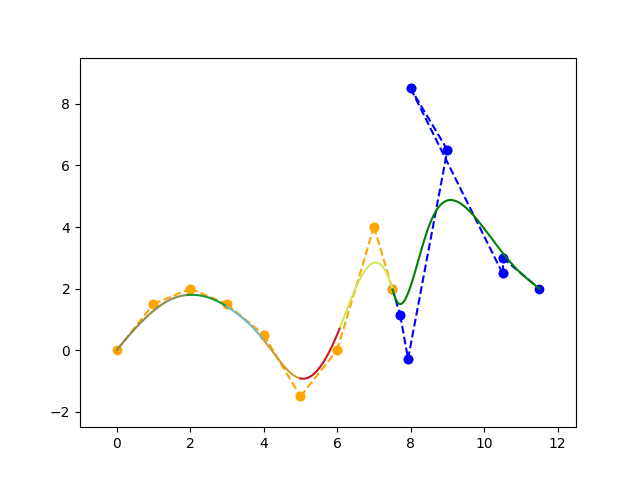
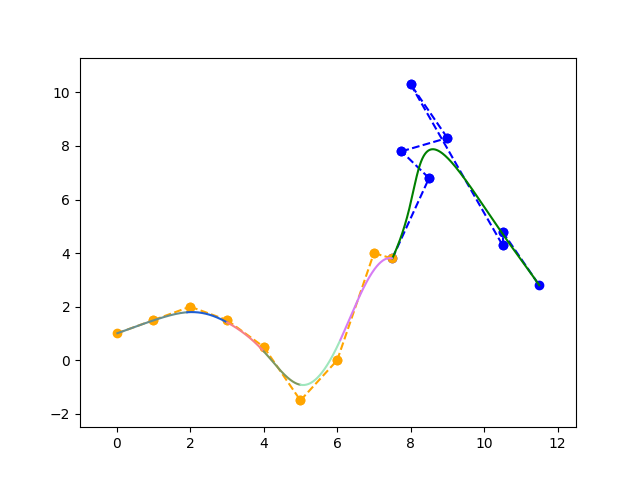
update (C0 fixed and other kinds of knot vector)
C0 fixed and other kinds of knot vector

diff --git a/Join Curves (C2)/Join.py b/Join Curves (C2)/Join.py
@@ -166,24 +166,27 @@ def getKnots(n, D):
             T.append(j-D+1)
         else:
             T.append(n-D+2)
+        # T.append(j/(n+D))
     return T
 
 def Plot_Bspline(points, D, T):
 
     n = len(points)-1
-    print(T)
+    print("Vetor de nós da B-spline: " + str(T))
 
-    U = np.linspace(0.0, n-D+2, 1000)
+    # U = np.linspace(0.0, n-D+2, 1000)
+    U = np.linspace(T[0], T[-1], 1000)
 
-    segments = list(set(T))
-    print(segments)
+    segments = list(T)
+    segments.sort()
+    print("Segmentos da B-spline: " + str(segments))
 
-    for i, segment in enumerate(segments[0:-1]):
-        piece = [calc_Bspline(points, ui, D, T) for ui in U if segment <= ui <= segments[i+1]]
+    for i, segment in enumerate(segments[D-1:-D], D-1):
+        piece = [calc_Bspline(points, ui, D, T) for ui in U if segment < ui <= segments[i+1]]
         X = [point.x for point in piece[0:-1]]
         Y = [point.y for point in piece[0:-1]]
         Z = [point.z for point in piece[0:-1]]
-
+        
         hexadecimal = "#"+''.join([random.choice('ABCDEF0123456789') for i in range(6)])
         plt.plot(X, Y, color = hexadecimal)
 
@@ -213,27 +216,32 @@ def Force_C0_BsplineToBezier(lastPoint_Bspline, Bezier_Points) -> None:
 def Force_C1_BsplineToBezier(Bspline_Points, Bezier_Points, D, T, h):
     # dS = calc_derivative_Bspline(Bspline_Points, T[-1]-h, D, T, 1)
     dS = Bspline_EndPoint_Derivative(Bspline_Points, D, T)
-    print("dS(", T[-1], ") = (", dS.x, ",", dS.y, ",", dS.z, ")")
+    print("S'(" + str(T[-1]) + ") = " + PointToString(dS))
+
     m = len(Bezier_Points) - 1
     B0 = Bezier_Points[0]
     B1 = Point(dS.x/m + B0.x, dS.y/m + B0.y, dS.z/m + B0.z)
     Bezier_Points[1] = B1
 
+    dB = calc_derivative_Bezier(0, Bezier_Points, 1)
+    print("B'(" + str(0) + ") = " + PointToString(dB) + "\n")
+
+
 def Force_C2_BsplineToBezier(Bspline_Points, Bezier_Points, D, T, h):
     second_dS = calc_derivative_Bspline(Bspline_Points, T[-1]-h, D, T, 2)
-    print("second_dS(", T[-1], ") = (", second_dS.x, ",", second_dS.y, ",", second_dS.z, ")")
+    print("S''(" + str(T[-1]) + ") = " + PointToString(second_dS))
     
-    m = len(Bezier_Points) - 1
-
+    m = len(Bezier_Points)-1
     B0 = Bezier_Points[0]
     B1 = Bezier_Points[1]
-    B2 = Point(second_dS.x/(m*(m-1)) + 2*B1.x - B0.x, second_dS.y/(m*(m-1)) + 2*B1.y - B0.y, second_dS.z/(m*(m-1)) + 2*B1.z - B0.z)
+    B2 = Point(second_dS.x/(m*(m-1))+2*B1.x-B0.x, 
+               second_dS.y/(m*(m-1))+2*B1.y-B0.y, 
+               second_dS.z/(m*(m-1))+2*B1.z-B0.z)
 
     Bezier_Points[2] = B2
 
-    # second_dB = Bezier_EndPoint_SecondDerivative(Bezier_Points)
     second_dB = calc_derivative_Bezier(0, Bezier_Points, 2)
-    print("second_dB(", 0, ") = (", second_dB.x, ",", second_dB.y, ",", second_dB.z, ")")
+    print("B''(" + str(0) + ") = " + PointToString(second_dB) + "\n")
 
 def PointToString(P : Point) -> str:
     return '(' + str(P.x) + ',' + str(P.y) + ',' + str(P.z) + ')'
@@ -255,9 +263,10 @@ def get_MaxValues(listsOfPoints : list) -> Point:
 if __name__ == "__main__":
 
     # Pontos de controle da curva B-Spline:
-    Bspline_Points = [Point(0, 0, 0), Point(1, 1.5, 0), Point(2, 2, 0),
+    Bspline_Points = [Point(0, 1, 0), Point(1, 1.5, 0), Point(2, 2, 0),
                         Point(3, 1.5, 0), Point(4, 0.5, 0), Point(5, -1.5, 0), 
-                        Point(6, 0, 0), Point(7, 4, 0), Point(7.5, 2, 0)]
+                        Point(6, 0, 0), Point(7, 4, 0), Point(7.5, 3.8, 0)]
+    
     # Parâmetros da B-Spline:
     D = 4
     n = len(Bspline_Points)-1
@@ -265,16 +274,13 @@ if __name__ == "__main__":
 
     # Pontos de controle da curva Bézier:
     Bezier_Points = [Point(1, -1, 0), Point(2, 2, 0), Point(1.25, 3, 0) , Point(2.5, 3.5, 0), 
-                    Point(1.5, 5.5, 0), Point(4, -0.5, 0), Point(4, 0, 0), Point(5, -1, 0)]
-
-    Flag = 2
-    print("Digite o número de acordo com o desejado: \n 1 - Bézier seguida de Bspline \n 2 - B-Spline seguida de Bézier\n")
+                    Point(1.5, 5.5, 0), Point(4, -0.5, 0), Point(4, 0, 0), Point(5, -2, 0)]
 
     # (1) Como as funções base da Bspline zeram para valores de parâmetro iguais ao último nó do vetor, para se calcular o valor...
     # ... do último ponto da Bspline deve-se fazer uma aproximação, pois matematicamente se trata de um limite, e nesse caso a...
     # ... a precisão deste cálculo será então definida pelo parâmetro h:
     h = 0.00000000000001
-    lastPoint_Bspline = calc_Bspline(Bspline_Points, T[-1]-h, D, T)
+    lastPoint_Bspline = calc_Bspline(Bspline_Points, T[-D]-h, D, T)
 
     # (2) Esta função translada uma lista de pontos para que o primeiro destes seja igual ao passado como parâmetro:
     Force_C0_BsplineToBezier(lastPoint_Bspline, Bezier_Points)
@@ -283,12 +289,12 @@ if __name__ == "__main__":
     # ... Bézier de acordo com o último ponto calculado da curva B-Spline e não de acordo com o último ponto de controle da mesma.
 
     # (3) Esta função calcula um novo ponto de controle P1 para a curva Bézier para que se force continuidade C1:
-    Force_C1_BsplineToBezier(Bspline_Points, Bezier_Points, D, T, h)
+    # Force_C1_BsplineToBezier(Bspline_Points, Bezier_Points, D, T, h)
     # Obs.: assim como para o cálculo da curva B-spline no último parâmetro do vetor de nós é necessário um valor h que definirá...
     # ... a precisão do cálculo da derivada da B-spline neste ponto.
 
     # (4) Esta função calcula um novo ponto de controle P2 para a curva Bézier para que se force continuidade C2:
-    Force_C2_BsplineToBezier(Bspline_Points, Bezier_Points, D, T, h)
+    # Force_C2_BsplineToBezier(Bspline_Points, Bezier_Points, D, T, h)
     # Obs.: assim como para o cálculo da curva B-spline no último parâmetro do vetor de nós é necessário um valor h que definirá...
     # ... a precisão do cálculo da segunda derivada da B-spline neste ponto.
 

diff --git a/Join Curves (C0)/Join.py b/Join Curves (C0)/Join.py
@@ -95,6 +95,7 @@ def calc_BSpline(points, u, D, T):
     return p
 
 def getKnots(n, D):
+    # Caso se queira alterar o vetor de nós pode-se alterar esta parte do código:
     T = []
     for j in range(0, n+D+1):
         if(j < D):
@@ -103,23 +104,25 @@ def getKnots(n, D):
             T.append(j-D+1)
         else:
             T.append(n-D+2)
+        # T.append(j/(n+D))
+        # T.append(j)
     return T
 
 def Plot_BSpline(points, D, T):
 
     n = len(points)-1
-    print(T)
+    print("Vetor de nós (B-spline): " + str(T))
 
-    U = np.linspace(0.0, n-D+2, 1000)
+    # A curva B-spline é definida apenas no intervalo em que T[D-1] <= u < T[n+1], pois este é o intervalo em que...
+    # ... a soma das funções base é igual à 1 (isso pode ser provado por indução):
+    U = np.linspace(T[D-1], T[n+1], 1000)
 
-    segments = list(set(T))
-    print(segments)
-
-    for i, segment in enumerate(segments[0:-1]):
-        piece = [calc_BSpline(points, ui, D, T) for ui in U if segment <= ui <= segments[i+1]]
-        X = [point.x for point in piece[0:-1]]
-        Y = [point.y for point in piece[0:-1]]
-        Z = [point.z for point in piece[0:-1]]
+    # Os intervalos 
+    for i in range(D-1, n+1):
+        piece = [calc_BSpline(points, ui, D, T) for ui in U if T[i] <= ui < T[i+1]]
+        X = [point.x for point in piece]
+        Y = [point.y for point in piece]
+        Z = [point.z for point in piece]
 
         hexadecimal = "#"+''.join([random.choice('ABCDEF0123456789') for i in range(6)])
         plt.plot(X, Y, color = hexadecimal)
@@ -181,14 +184,15 @@ if __name__ == "__main__":
                      Point(2.5, 1.5, 0), Point(1.5, 0.5, 0), Point(3, -1.5, 0), 
                      Point(4, -2, 0), Point(5, -3, 0)]
 
-    Flag = 2
-    print("Digite o número de acordo com o desejado: \n 1 - Bézier seguida de BSpline \n 2 - B-Spline seguida de Bézier\n")
-
     # (1) Como as funções base da BSpline zeram para valores de parâmetro iguais ao último nó do vetor, para se calcular o valor...
     # ... do último ponto da BSpline deve-se fazer uma aproximação, pois matematicamente se trata de um limite, e nesse caso a...
     # ... a precisão deste cálculo será então definida pelo parâmetro h:
-    h = 0.000000000001
-    lastPoint_BSpline = calc_BSpline(BSpline_points, T[-1]-h, D, T)
+    h = 0.00000001
+    lastPoint_BSpline = calc_BSpline(BSpline_points, T[n+1]-h, D, T)
+    # Obs.: o último ponto da B-spline ocorre em u = T[n+1] pois a curva é definida apenas no intervalo [T[D-1], T[n+1]), visto...
+    # ... que este é o intervalo no qual a soma das funções base é igual à 1.
+
+    print("Conection Point = " + PointToString(lastPoint_BSpline))
 
     # (2) Esta função translada uma lista de pontos para que o primeiro destes seja igual ao passado como parâmetro:
     Force_C0_BSplineToBezier(lastPoint_BSpline, Bezier_Points)
